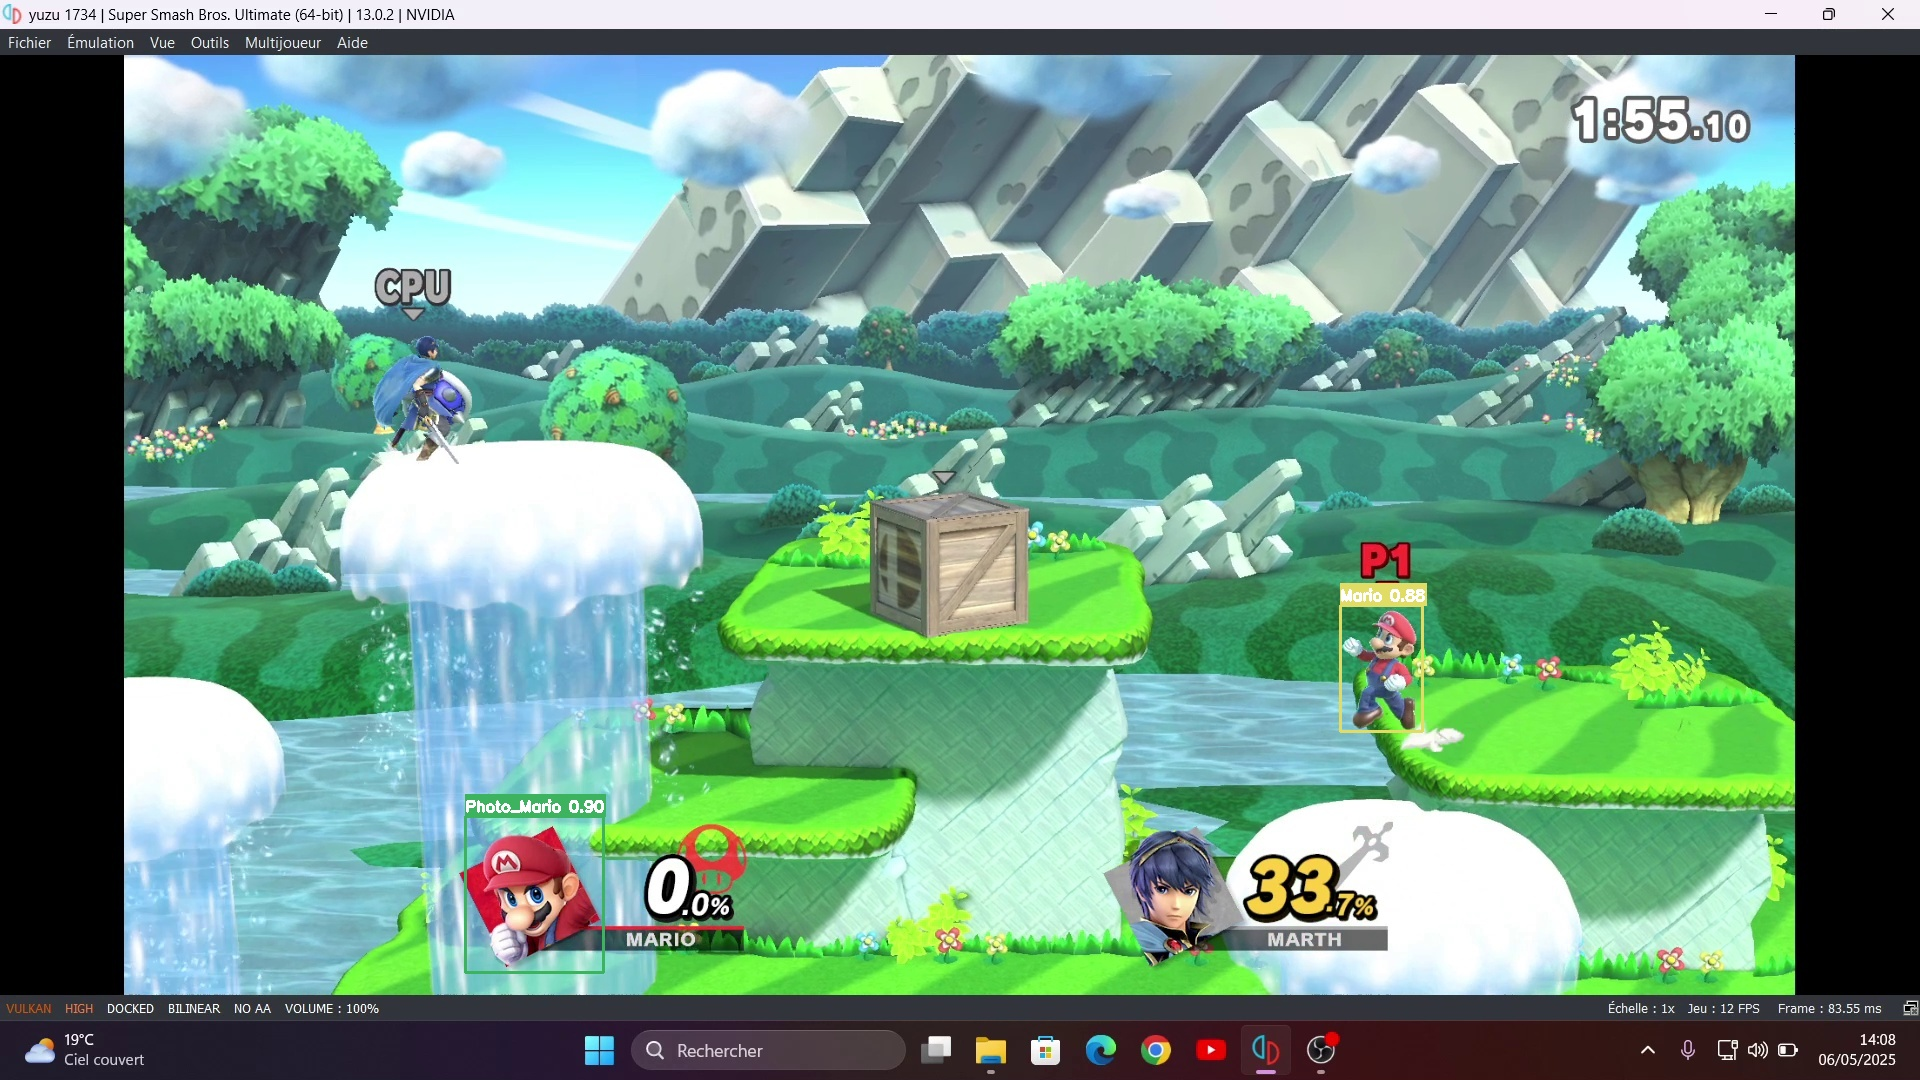
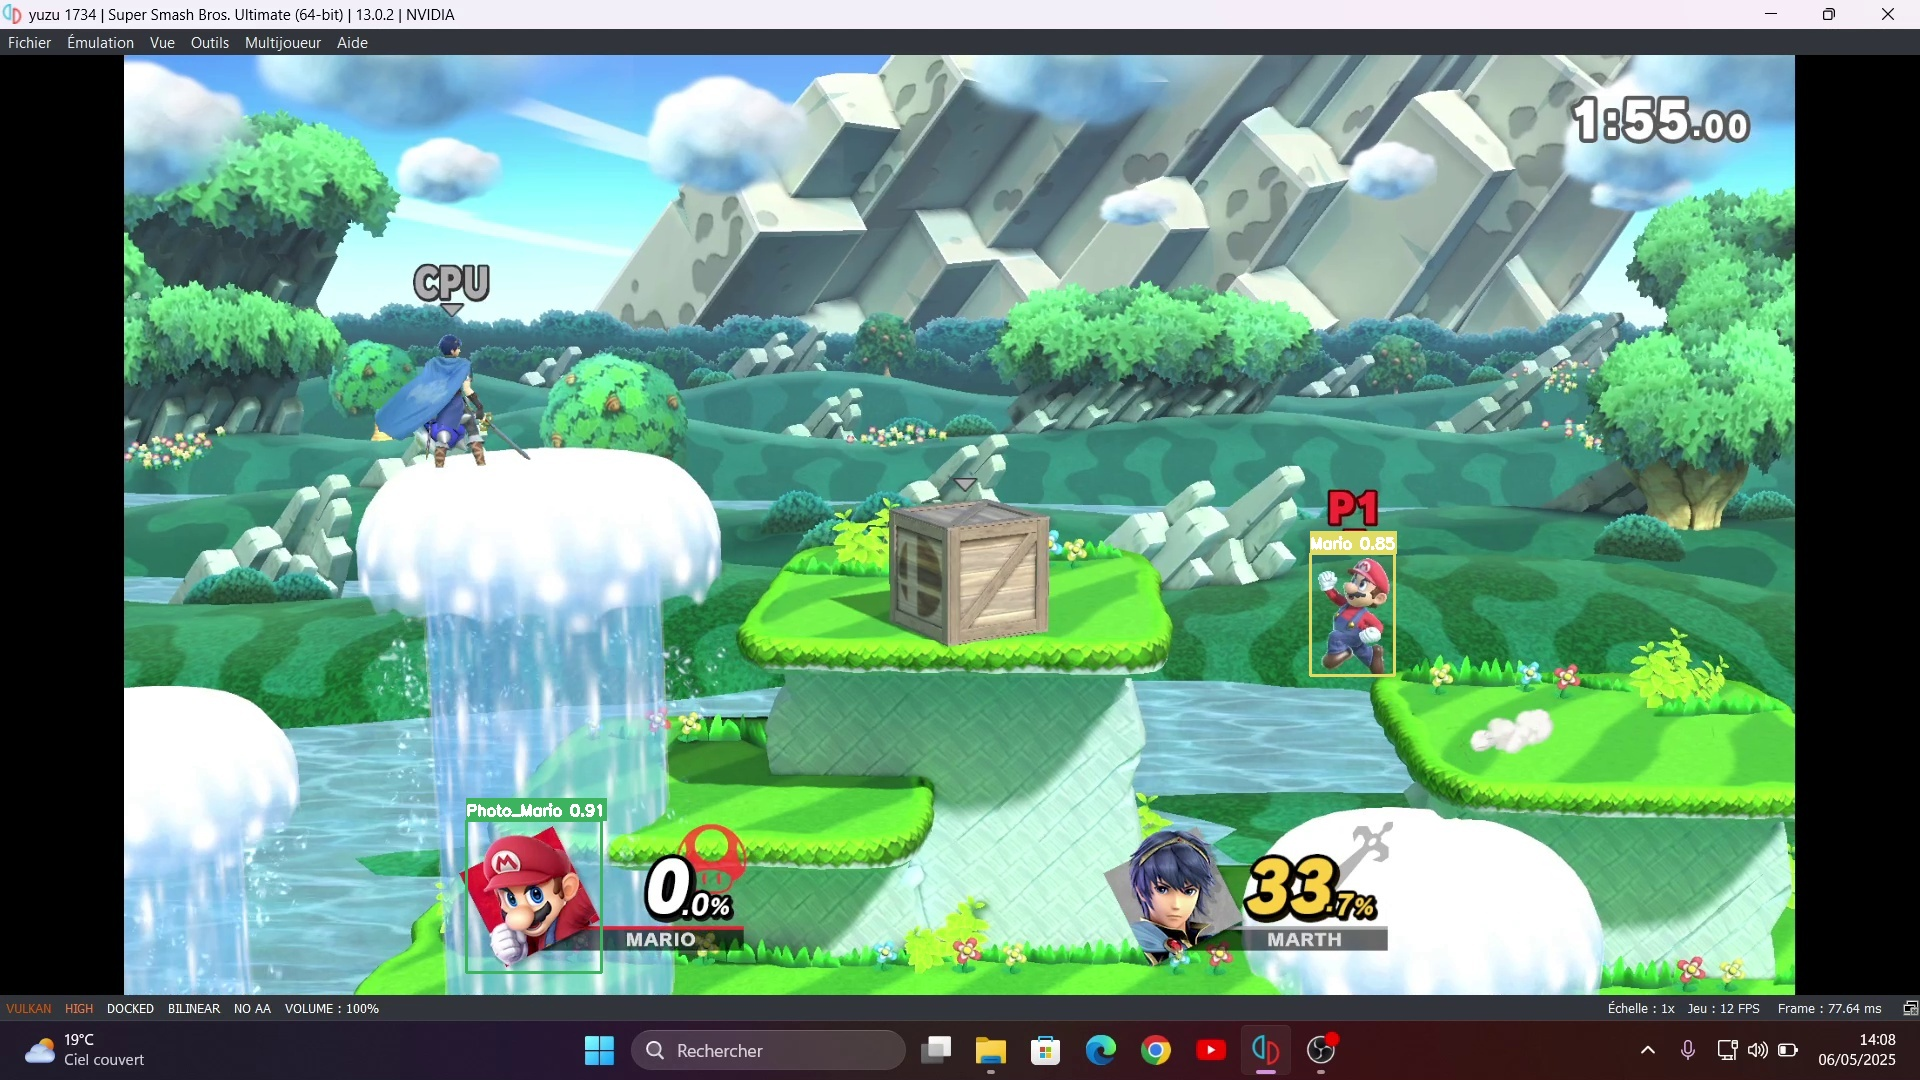
cinquieme first commit

diff --git a/utilisation.py b/utilisation.py
@@ -3,49 +3,54 @@ from PIL import Image
 import cv2
 import numpy as np
 
-# Chargement le modèle pré-entraîné
-model = YOLO('runs/detect/train/weights/best.pt')
+def main():
+    # Chargement le modèle pré-entraîné
+    model = YOLO('runs/detect/train/weights/best.pt')
 
-image = cv2.imread('test/frame_0304.jpg')
-resultats = model(image)
+    image = cv2.imread('test/frame_0305.jpg') # Mettre l'image de test
+    resultats = model(image)
 
-# Générer des couleurs distinctes pour chaque classe
-# Déterminer le nombre de classes dans le modèle
-nb_classes = len(model.names)
-# Générer des couleurs aléatoires distinctes (BGR pour OpenCV)
-np.random.seed(42)  # Pour une cohérence des couleurs entre les exécutions
-colors = np.random.randint(0, 255, size=(nb_classes, 3), dtype=np.uint8).tolist()
+    # Générer des couleurs distinctes pour chaque classe
+    # Déterminer le nombre de classes dans le modèle
+    nb_classes = len(model.names)
 
-# Afficher les résultats
-for r in resultats:
-    boxes = r.boxes
-    for box in boxes:
-        x1, y1, x2, y2 = box.xyxy[0]
-        x1, y1, x2, y2 = int(x1), int(y1), int(x2), int(y2)
+    np.random.seed(42)  # Pour une cohérence des couleurs entre les exécutions
+    colors = np.random.randint(0, 255, size=(nb_classes, 3), dtype=np.uint8).tolist()
 
-        # Classe et confiance
-        classe = int(box.cls[0])
-        nom_classe = model.names[classe]
-        confiance = float(box.conf[0])
+    # Afficher les résultats
+    for r in resultats:
+        boxes = r.boxes
+        for box in boxes:
+            create_box(cv2, box,model,colors,image)
 
-        print(f"Détecté: {nom_classe} avec confiance {confiance:.2f} à la position {x1, y1, x2, y2}")
+    # Sauvegarder ou afficher l'image avec les détections
+    cv2.imwrite('resultat_detection.jpg', image)
+    cv2.imshow('Détections', image)
+    cv2.waitKey(0)
 
-        # Sélectionner la couleur pour cette classe
-        color = colors[classe]
+def create_box(cv2, box,model,colors,image):
+    x1, y1, x2, y2 = box.xyxy[0]
+    x1, y1, x2, y2 = int(x1), int(y1), int(x2), int(y2)
 
-        # Dessiner la boîte sur l'image avec la couleur spécifique à la classe
-        cv2.rectangle(image, (x1, y1), (x2, y2), color, 2)
+    classe = int(box.cls[0])
+    nom_classe = model.names[classe]
+    confiance = float(box.conf[0])
 
-        # Ajouter un fond pour le texte pour améliorer la lisibilité
-        text = f"{nom_classe} {confiance:.2f}"
-        text_size = cv2.getTextSize(text, cv2.FONT_HERSHEY_SIMPLEX, 0.5, 2)[0]
-        cv2.rectangle(image, (x1, y1 - text_size[1] - 10), (x1 + text_size[0], y1), color, -1)
+    print(f"Détecté: {nom_classe} avec confiance {confiance:.2f} à la position {x1, y1, x2, y2}")
 
-        # Ajouter le texte en blanc pour contraste
-        cv2.putText(image, text, (x1, y1 - 5),
-                    cv2.FONT_HERSHEY_SIMPLEX, 0.5, (255, 255, 255), 2)
+    color = colors[classe]
 
-# Sauvegarder ou afficher l'image avec les détections
-cv2.imwrite('resultat_detection.jpg', image)
-cv2.imshow('Détections', image)
-cv2.waitKey(0)
+    cv2.rectangle(image, (x1, y1), (x2, y2), color, 2)
+
+    text = f"{nom_classe} {confiance:.2f}"
+    text_size = cv2.getTextSize(text, cv2.FONT_HERSHEY_SIMPLEX, 0.5, 2)[0]
+    cv2.rectangle(image, (x1, y1 - text_size[1] - 10), (x1 + text_size[0], y1), color, -1)
+
+    # Ajouter le texte en blanc pour contraste
+    cv2.putText(image, text, (x1, y1 - 5),
+                cv2.FONT_HERSHEY_SIMPLEX, 0.5, (255, 255, 255), 2)
+main()
+
+
+
+
